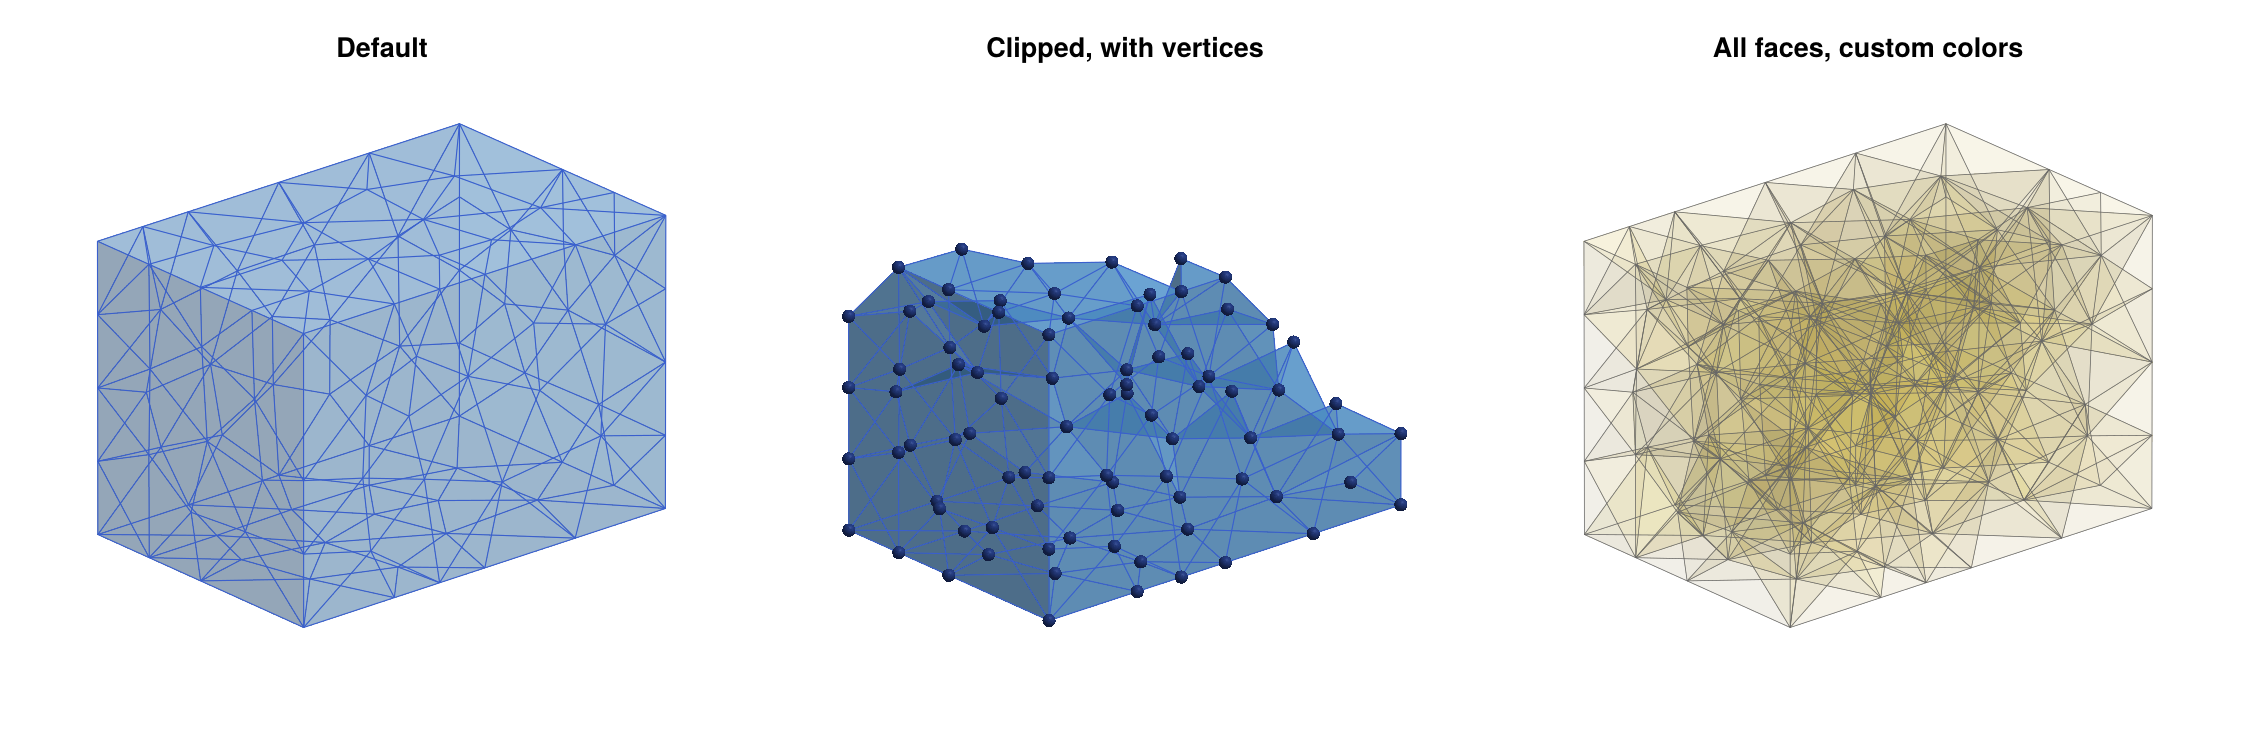
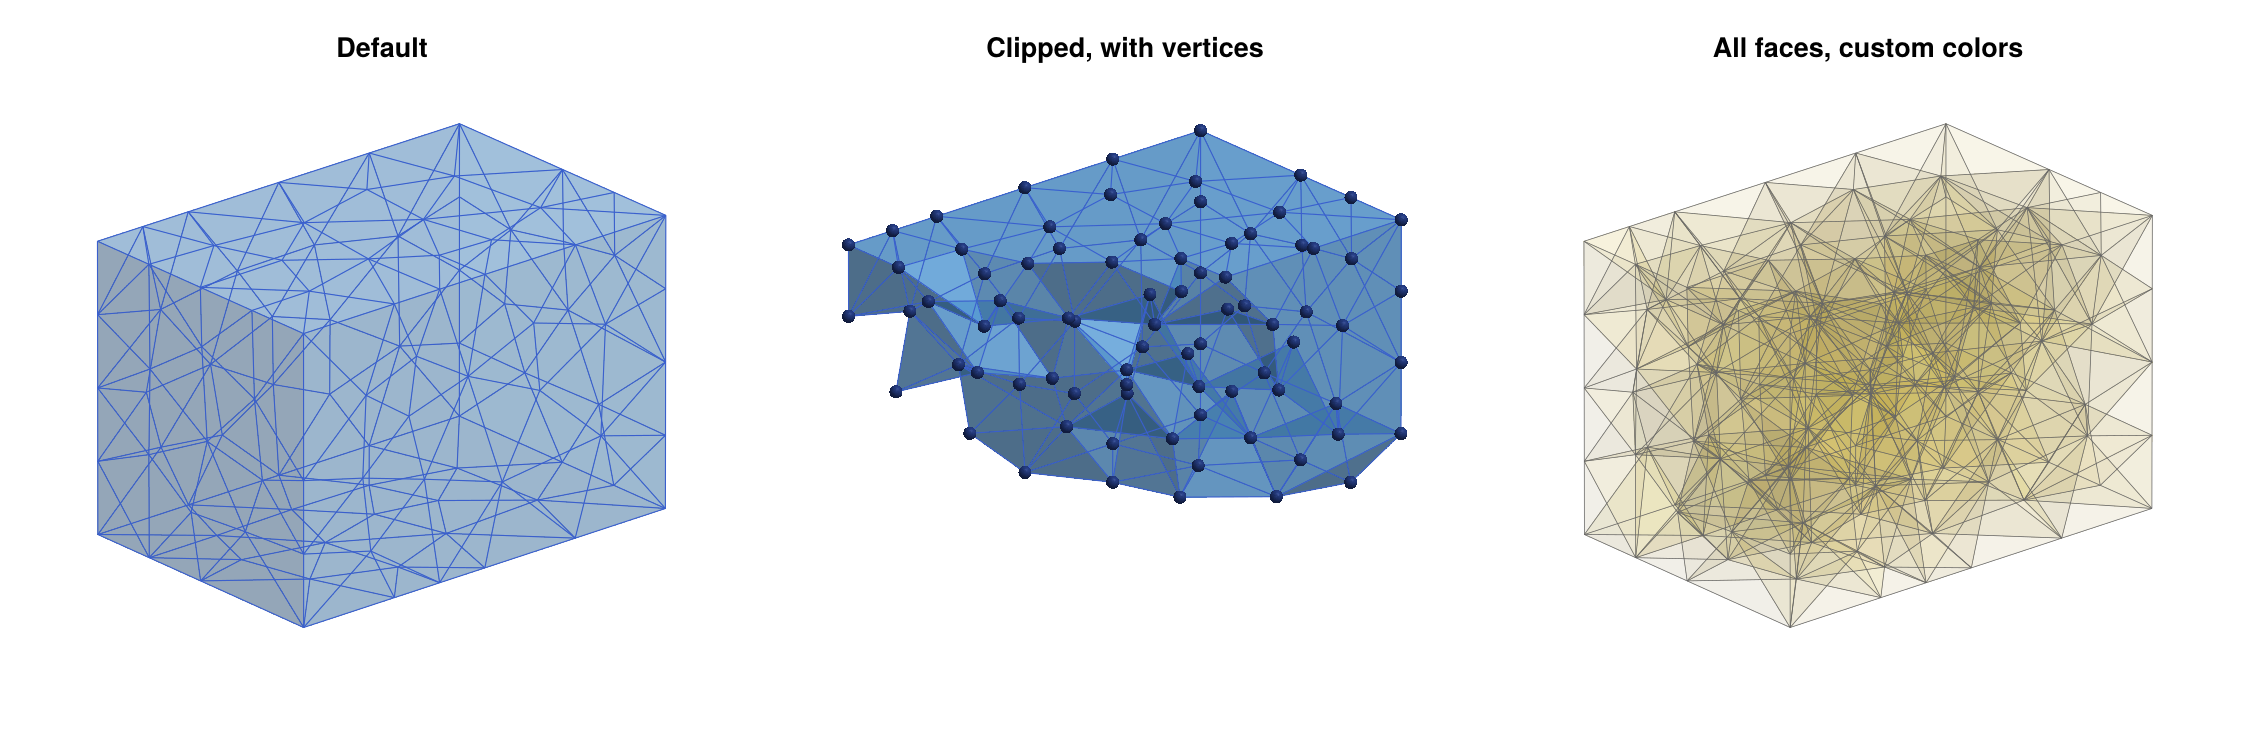
The cut surfaces of all clipped three-dimensional figures in the manual now face the viewer. Previously, the clip normals [0,1,0], [1,0,0], and [1,1,1] kept the half of the mesh facing away from the default Makie camera, which looks from slightly above and from the side of negative x and y, so that 

Changed region(s): [[0.3733, 0.1533, 0.6222, 0.828]]

diff --git a/docs/src/man/plotting.md b/docs/src/man/plotting.md
@@ -616,7 +616,7 @@ The middle and right panels of the same figure illustrate some of these
 options:
 
 ```julia
-fig2 = plot_simplicial3d(ec; clip=([1,1,1], 0.0), pdim=[true,true,true,true],
+fig2 = plot_simplicial3d(ec; clip=([-1,-1,-1], 0.0), pdim=[true,true,true,true],
                          alpha=0.6)
 fig3 = plot_simplicial3d(ec; hull_only=false, alpha=0.05,
                          facecolor=:gold, edgecolor=:gray40, linewidth=0.5)
@@ -649,13 +649,18 @@ of a triangulated surface. All other cells are kept if and only if they
 are faces of a kept cell, so that the visible part is again a closed
 subcomplex, and its boundary surface is drawn as usual. For example,
 
-* `clip=([0,1,0], 0.0)` keeps the half `y <= 0` of the complex,
-* `clip=([0,0,-1], -0.5)` keeps the part with `z >= 0.5`, and
-* `clip=([1,1,1], 0.0)` cuts the complex diagonally, as in the middle
+* `clip=([0,-1,0], 0.0)` keeps the half `y >= 0` of the complex,
+* `clip=([0,0,1], 0.5)` keeps the part with `z <= 0.5`, and
+* `clip=([-1,-1,-1], 0.0)` cuts the complex diagonally, as in the middle
   panel of the figure with three plots of a tetrahedral mesh.
 
 Since whole tetrahedra are removed, the cut surface is jagged rather
-than planar, and it shows the actual tetrahedra at the cut. The `clip`
+than planar, and it shows the actual tetrahedra at the cut. The cut
+surface faces the viewer if the normal `n` points towards the viewer.
+The default view of Makie looks at the complex slightly from above and
+from the side of negative `x` and `y`. Therefore, the normals
+`[0,-1,0]`, `[-1,0,0]`, `[0,0,1]`, and `[-1,-1,-1]` show the cut
+surface, while `[0,1,0]` turns it away from the viewer. The `clip`
 argument is accepted by all plotting functions, and it applies to the
 background complex as well as to the highlighted cell subsets. To show
 the same section in several overlaid plots, pass the same `clip` value
@@ -678,7 +683,7 @@ ax1 = Axis3(fig[1,1]; aspect=:data, title="Default")
 plot_simplicial3d!(ax1, ec)
 
 ax2 = Axis3(fig[1,2]; aspect=:data, title="Clipped, with vertices")
-plot_simplicial3d!(ax2, ec; clip=([1,1,1], 0.0), pdim=[true,true,true,true],
+plot_simplicial3d!(ax2, ec; clip=([-1,-1,-1], 0.0), pdim=[true,true,true,true],
                    alpha=0.6)
 
 ax3 = Axis3(fig[1,3]; aspect=:data, title="All faces, custom colors")

diff --git a/docs/src/man/meshing3d.md b/docs/src/man/meshing3d.md
@@ -1285,7 +1285,7 @@ fig = Figure(size=(1200,550))
 ax1 = Axis3(fig[1,1]; aspect=:data, title="Morse sets")
 plot_simplicial3d_morse!(ax1, ecc, cmc.morse; ci=true)
 ax2 = Axis3(fig[1,2]; aspect=:data, title="Refined mesh, clipped at y = 0")
-plot_simplicial3d!(ax2, ecc; clip=([0,1,0], 0.0), alpha=0.6)
+plot_simplicial3d!(ax2, ecc; clip=([0,-1,0], 0.0), alpha=0.6)
 for ax in (ax1, ax2)
     hidedecorations!(ax)
     hidespines!(ax)

diff --git a/docs/src/man/tutorial.md b/docs/src/man/tutorial.md
@@ -901,7 +901,7 @@ commands
 ```julia
 using GLMakie
 
-fig1 = plot_simplicial3d(ec; clip=([0,1,0], 0.0), alpha=0.6)
+fig1 = plot_simplicial3d(ec; clip=([0,-1,0], 0.0), alpha=0.6)
 fig2 = plot_simplicial3d_morse(ec, cm.morse; ci=true)
 ```
 
